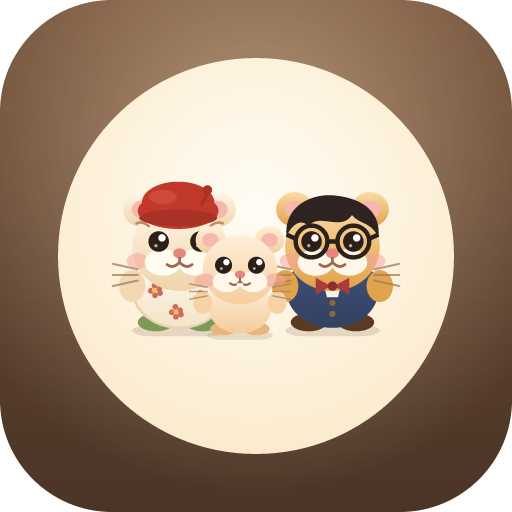
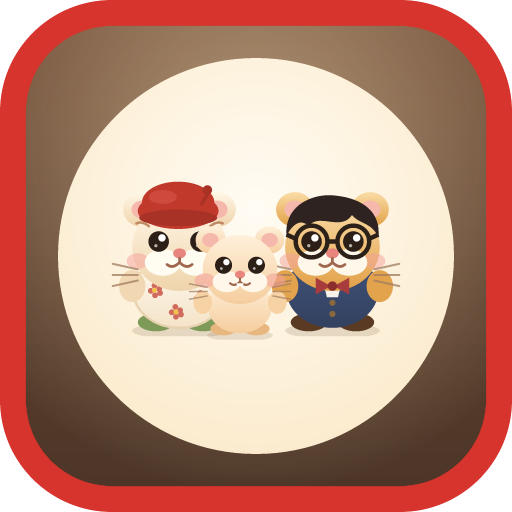
와글가족 테이블: 홈 화면 앱 아이콘에 빨간 테두리(#D6342C) 적용 — 512 기준 26px(192=10px, 180=9px), 마스크 가능(maskable) 아이콘은 런처 마스크에 잘리지 않도록 가장자리 전체를 빨갛게 (캐시 v12)

Changed region(s): [[0.0, 0.0, 1.0, 1.0]]

diff --git a/menu/sw.js b/menu/sw.js
@@ -3,7 +3,7 @@
    - 외부(다른 사이트) 요청은 절대 건드리지 않음 · 개인정보 0%
    - 메뉴판(index.html)은 항상 네트워크 우선 → 새 버전이 바로 반영됨 */
 
-const CACHE = 'wagle-table-v11';
+const CACHE = 'wagle-table-v12';
 const SHELL = [
   './',
   './index.html',
